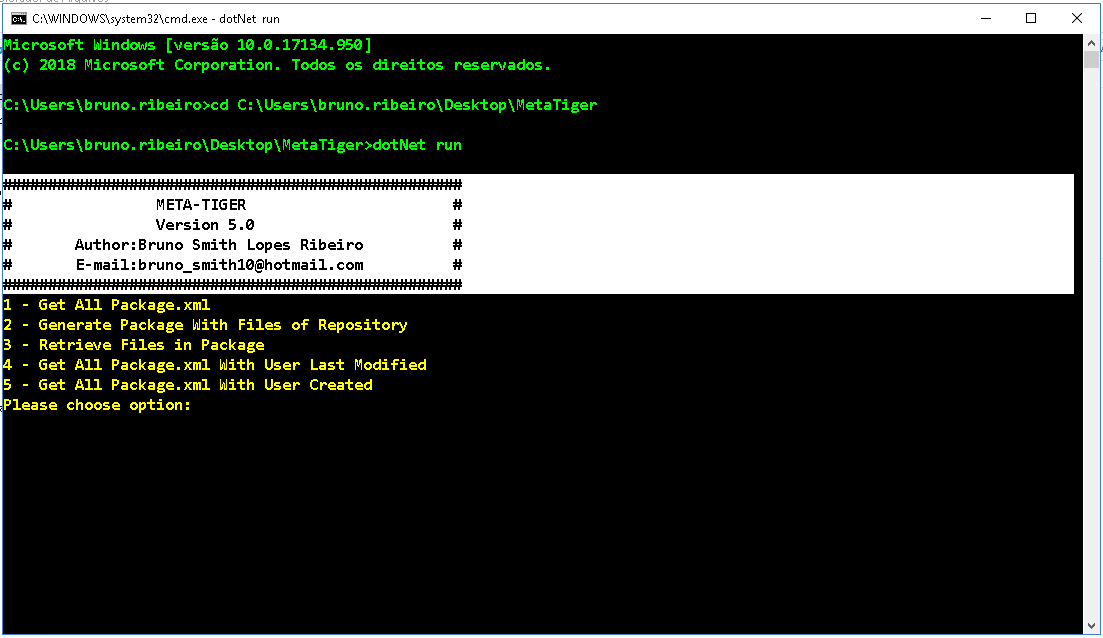
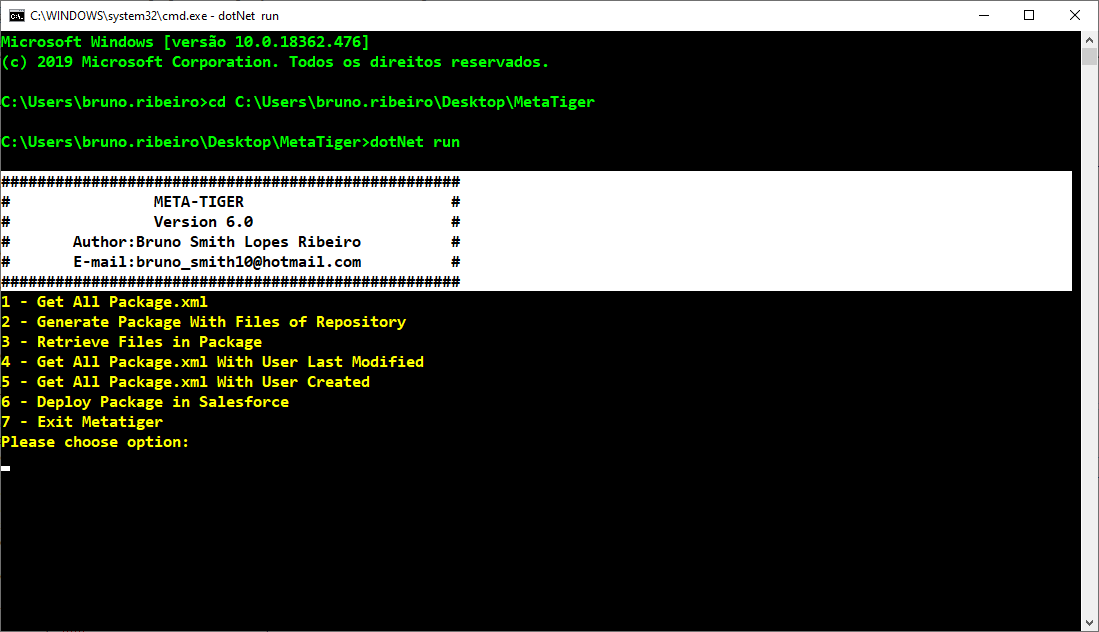
MetaTiger Description Update

Changed region(s): [[0.0, 0.0, 1.0, 1.0], [0.0, 0.1503, 0.5569, 0.1804], [0.0, 0.2104, 0.4331, 0.2405]]

diff --git a/README.md b/README.md
@@ -31,6 +31,10 @@ This feature also takes metadata creations that were made by users.
 
 You have a responsibility to get the metadata that was only created by users at that reference period.
 
+<h3>6 - Deploy Package in Salesforce</h3>  
+
+This feature has the responsibility of deploying to any Salesforce environment, it allows various types of deploy's.
+
 <h3>Configuration Meta Tiger</h3>
 
 Install  Visual Studio Code.<br />
